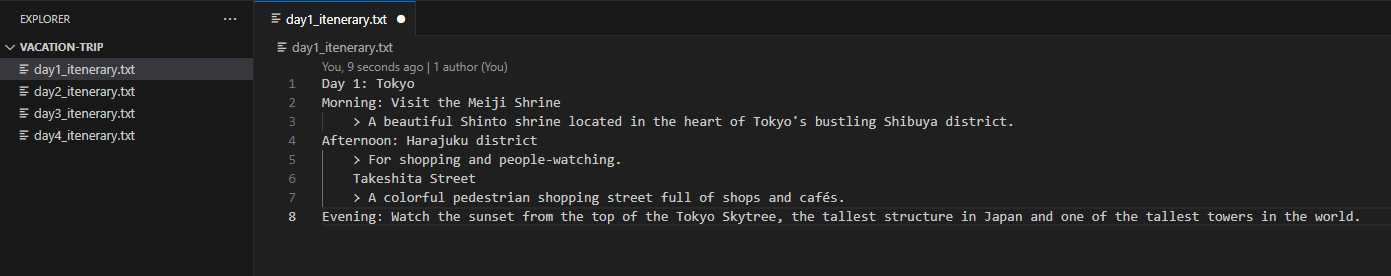
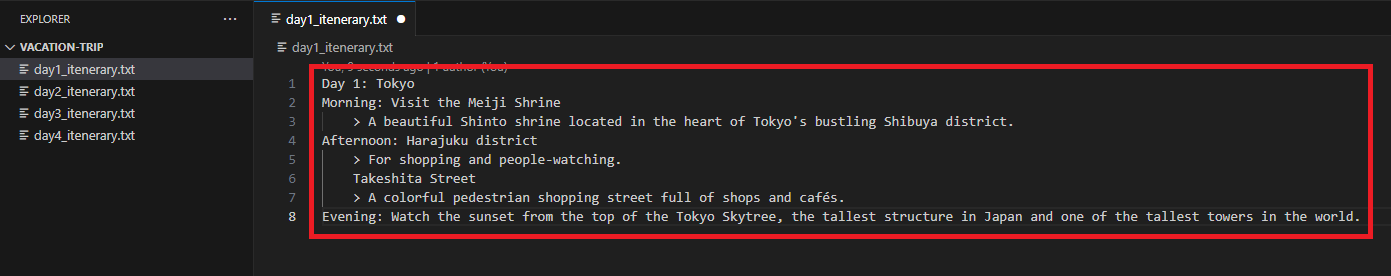
Edit initial file and storyline 1 & 2 for added text

Changed region(s): [[0.2164, 0.2319, 0.9892, 0.8696]]

diff --git a/Learning Git with Real-Life Applications/4. Collaboration as A Team/1._Contributing_Individually.md b/Learning Git with Real-Life Applications/4. Collaboration as A Team/1._Contributing_Individually.md
@@ -53,6 +53,8 @@
     Evening: Watch the sunset from the top of the Tokyo Skytree, the tallest structure in Japan and one of the tallest towers in the world.
     ```
 
+    `Added texts are as shown in the red box below`
+
     ![Edit text file](../images/4_1/4_1_4.png)
 
 4.  So in order to share the changes with the group, he has to "push" the updates into the remote repository. After he is done with editing of the text file, he staged, commit and push the files with the following commands:

diff --git a/Learning Git with Real-Life Applications/4. Collaboration as A Team/2._Working_On_The_Same_Branch.md b/Learning Git with Real-Life Applications/4. Collaboration as A Team/2._Working_On_The_Same_Branch.md
@@ -55,6 +55,8 @@
     > Have fun looking at the different types of ramen out there
     ```
 
+    `Added texts are as shown in the red box below`
+    
     ![Change day1_itinerary.txt file](../images/4_2/4_2_day1_add_afternoon_devB.png)
 
 
